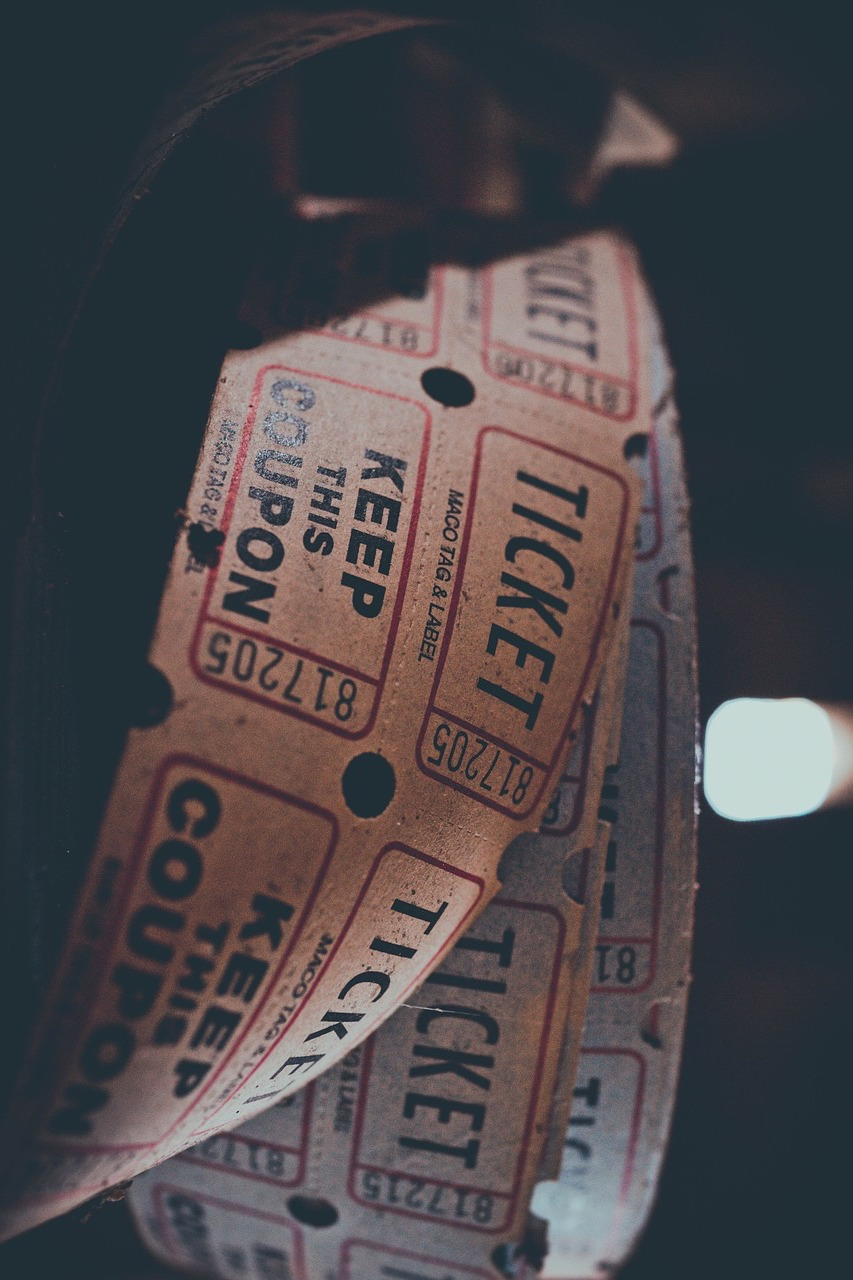
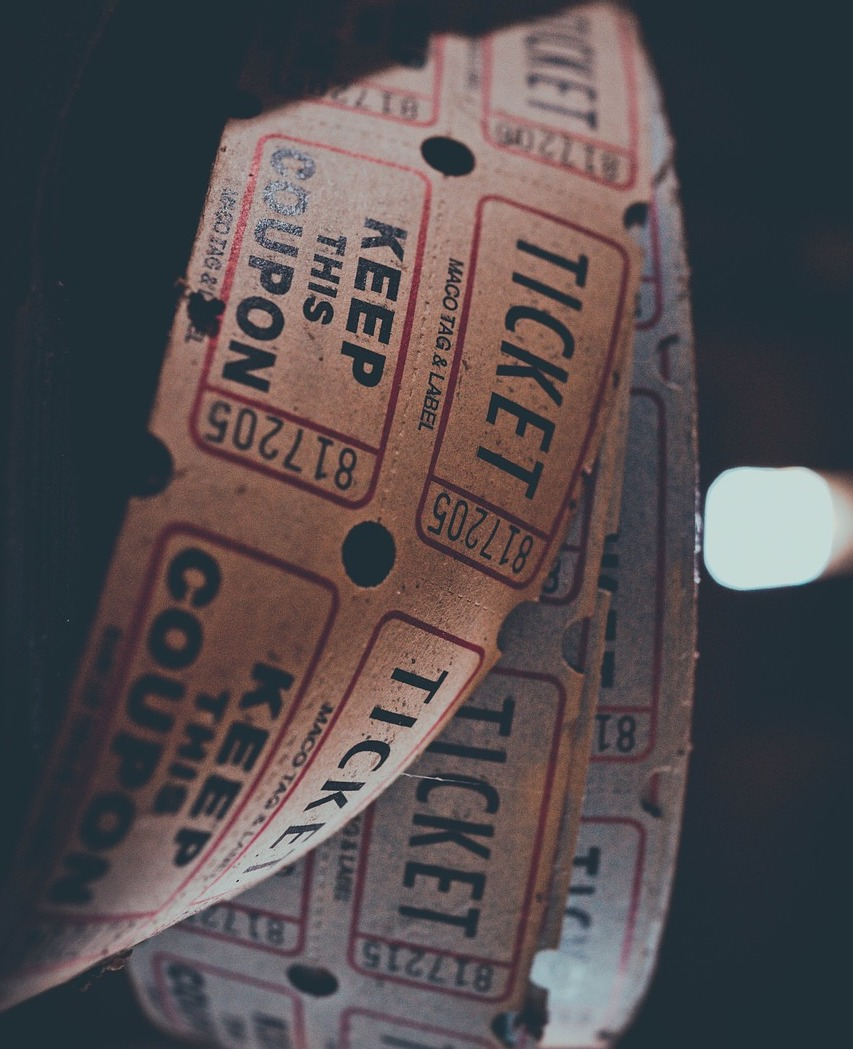
dates updated

diff --git a/game-and-uplyft.html b/game-and-uplyft.html
@@ -262,9 +262,9 @@ Scholarships will be awarded to five featured students that volunteered for the 
 
                                                 <div class="col-sm-10 col-sm-offset-1 col-xs-9 col-xs-offset-1">
                                                     <article class="single_service_right_text">
-                                                        <h4>DATES</h4>
-                                                        <p style="line-height:115%; font-size:18px;">Saturday, September 15th, 2018<br />
-                                                        Sunday, September 16th, 2018</p>
+                                                        <h4>DATES &amp; TIME</h4>
+                                                        <p style="line-height:115%; font-size:18px;"><i>Saturday, September 15th, 2018:&nbsp;</i> 10:00 am - 11:00 pm<br />
+                                                        <i>Sunday, September 16th, 2018:&nbsp;</i> 10:00 am - 11:00 pm</p>
                                                     </article>
                                                 </div>
                                                 <div class="col-sm-1 col-xs-1">
@@ -293,7 +293,7 @@ Scholarships will be awarded to five featured students that volunteered for the 
                                             </div>
                                         </div><!-- End of col-sm-12 -->
 
-                                        <div class="col-md-12 col-sm-10 col-xs-10 margin-bottom-60">
+<!--                                         <div class="col-md-12 col-sm-10 col-xs-10 margin-bottom-60">
                                             <div class="row">
 
                                                 <div class="col-sm-10 col-sm-offset-1 col-xs-9 col-xs-offset-1 margin-bottom-20">
@@ -306,10 +306,10 @@ Scholarships will be awarded to five featured students that volunteered for the 
                                                 <div class="col-sm-1 col-xs-1">
                                                     <figure class="single_service_icon">
                                                         <i class="fa fa-clock-o"></i>
-                                                    </figure><!-- End of figure -->
+                                                    </figure>< End of figure
                                                 </div>
                                             </div>
-                                        </div><!-- End of col-sm-12 -->
+                                        </div>< End of col-sm-12 -->
 
                                         <div class="col-md-12 col-sm-10 col-xs-10 margin-bottom-60">
                                             <div class="row">
@@ -346,27 +346,7 @@ Scholarships will be awarded to five featured students that volunteered for the 
                                                     </figure><!-- End of figure -->
                                                 </div>
                                             </div>
-                                        </div><!-- End of col-sm-12 -->                                       
-
-                                        <div class="col-md-12 col-sm-10 col-xs-10 margin-bottom-60">
-                                            <div class="row">
-
-                                                <div class="col-sm-10 col-sm-offset-1 col-xs-9 col-xs-offset-1">
-                                                    <article class="single_service_right_text">
-                                                        <h4>CORE EVENT FEATURES</h4>
-                                                        <p style="line-height:115%; font-size:18px;">Gaming<br >
-                                                        Fashion<br />
-                                                        Music<br />
-                                                        Charity</p>
-                                                    </article>
-                                                </div>
-                                                <div class="col-sm-1 col-xs-1">
-                                                    <figure class="single_service_icon">
-                                                        <i class="fa fa-microphone"></i>
-                                                    </figure><!-- End of figure -->
-                                                </div>
-                                            </div>
-                                        </div><!-- End of col-sm-12 -->   
+                                        </div><!-- End of col-sm-12 -->                                        
 
                                     </div>
                                 </div>
@@ -375,7 +355,7 @@ Scholarships will be awarded to five featured students that volunteered for the 
                             <div class="col-md-6 col-sm-12 no-padding">
                                 <figure class="single_service single_service_img">
                                     <div class="overlay-img"></div>
-                                    <img style="max-width:1500px; width:100%; height:auto;"src="game/assets/images/tickets.jpg" alt="" />
+                                    <img style="max-width:1000px; width:100%; height:auto;" src="game/assets/images/tickets.jpg" alt="" />
                                 </figure><!-- End of figure -->
                             </div><!-- End of col-sm-6 -->
 
